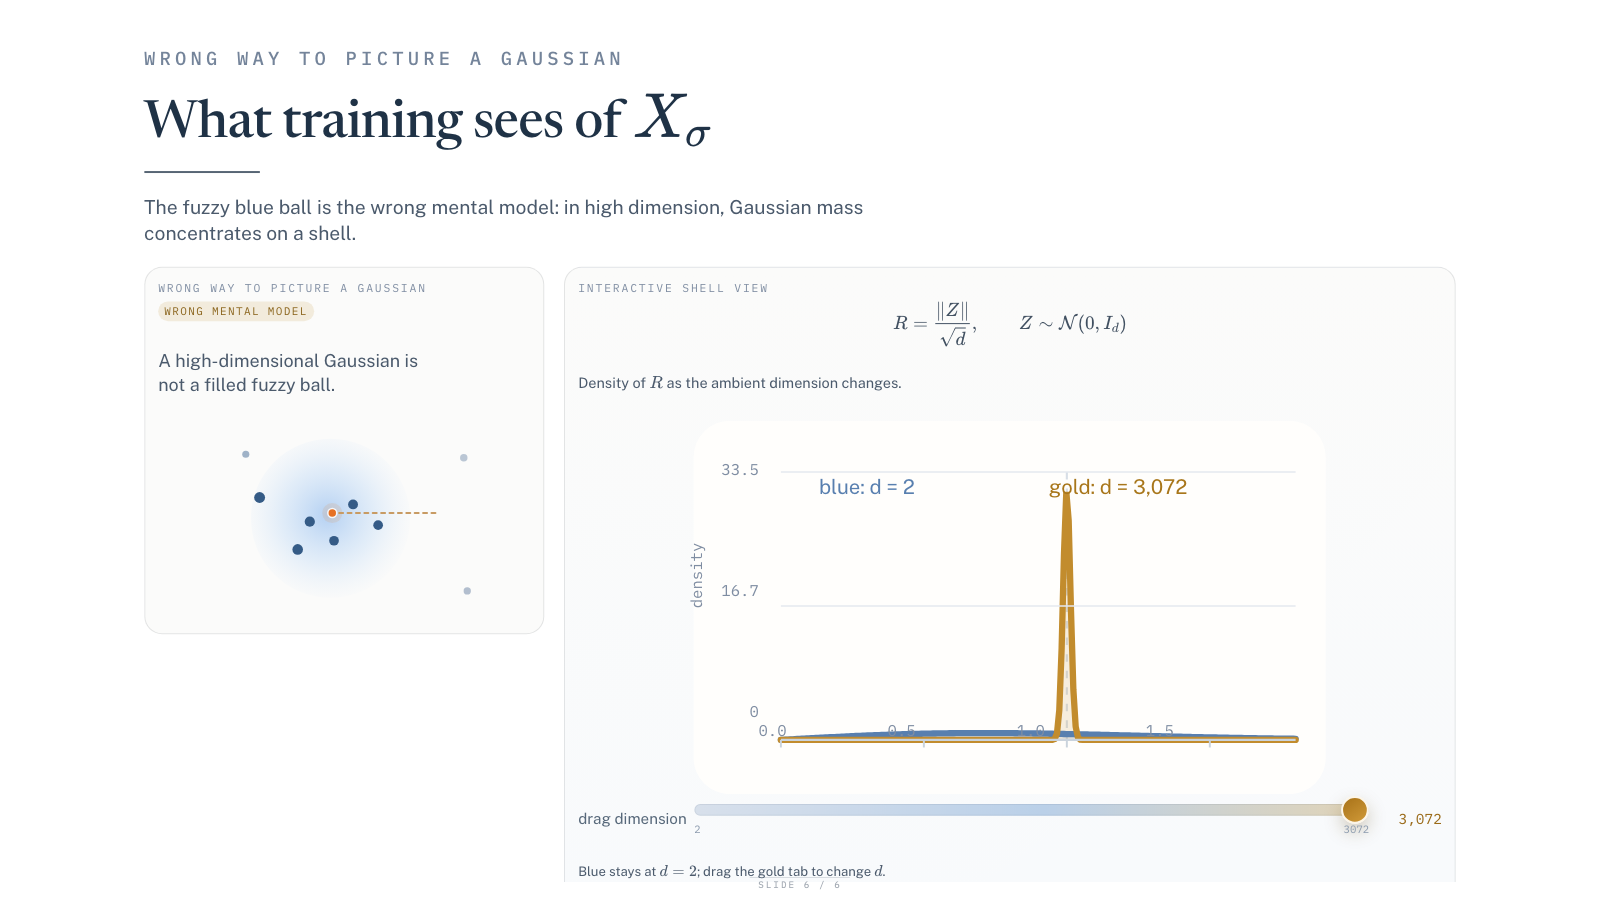
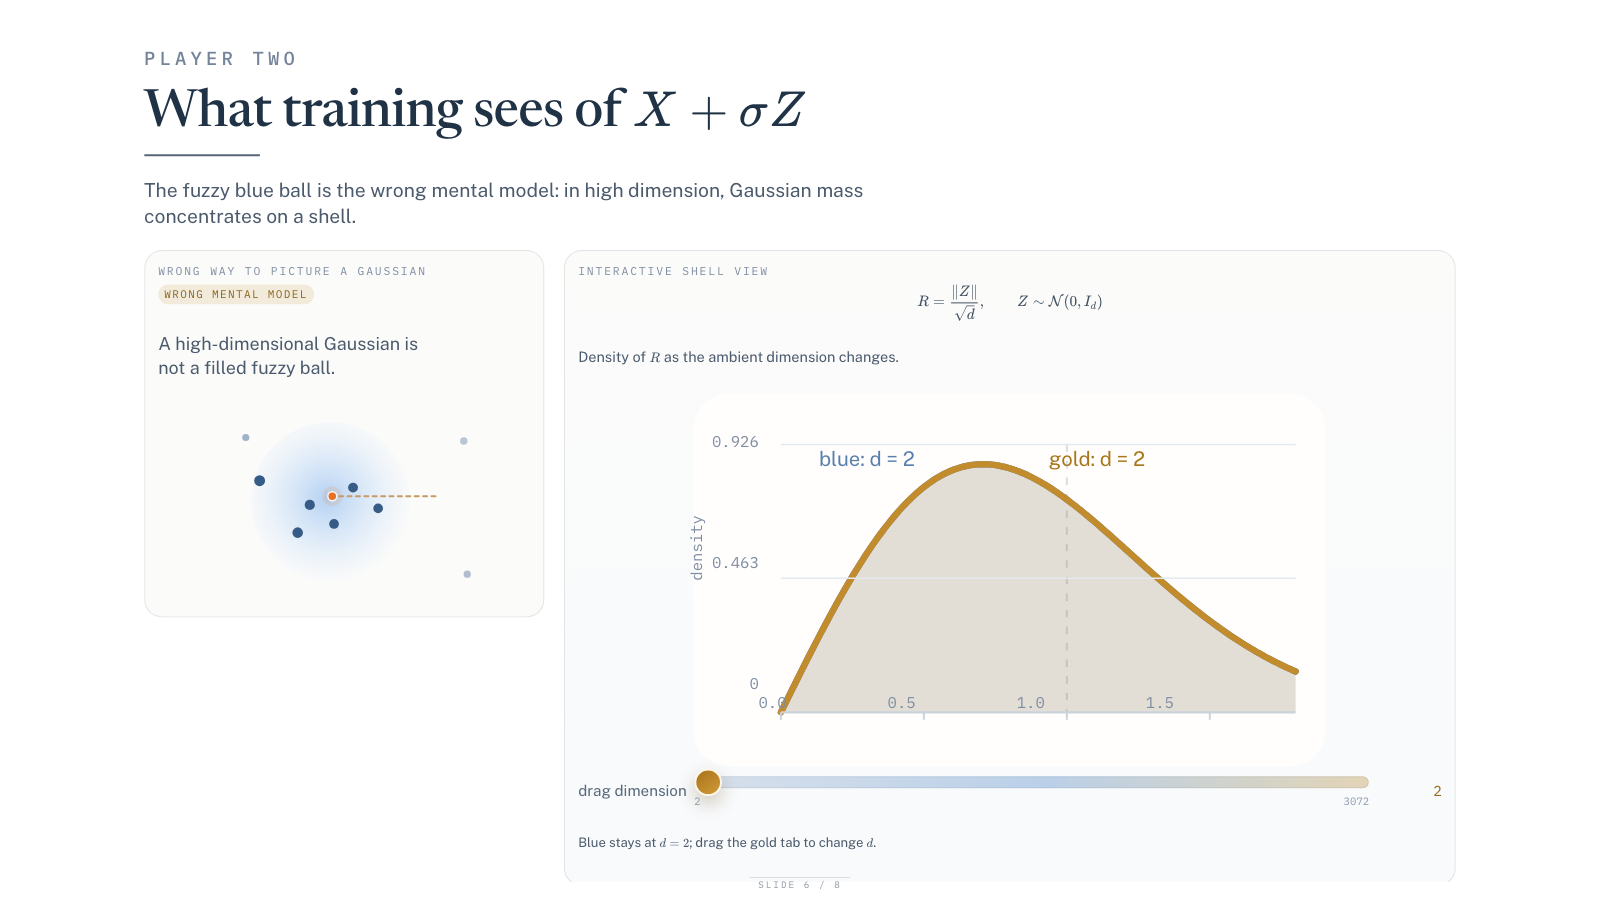
Update slide 6 player two framing

diff --git a/06-what-training-sees-of-xsigma.html b/06-what-training-sees-of-xsigma.html
@@ -3,7 +3,7 @@
 <head>
   <meta charset="utf-8">
   <meta name="viewport" content="width=device-width, initial-scale=1.0, maximum-scale=1.0, user-scalable=no">
-  <title>ICML Presentation · Slide 6 · What training sees of Xσ</title>
+  <title>ICML Presentation · Slide 6 · What training sees of X + σZ</title>
   <link rel="preconnect" href="https://fonts.googleapis.com">
   <link rel="preconnect" href="https://fonts.gstatic.com" crossorigin>
   <link href="https://fonts.googleapis.com/css2?family=IBM+Plex+Mono:wght@400;500&family=Newsreader:opsz,wght@6..72,400;6..72,500;6..72,600;6..72,700&family=Public+Sans:wght@300;400;500;600;700&display=swap" rel="stylesheet">
@@ -242,7 +242,7 @@
   <div class="reveal standalone-reveal">
     <div class="slides">
       <section class="compact-shell-slide">
-        <h2 data-kicker="Wrong way to picture a Gaussian">What training sees of <span id="title-math">Xσ</span></h2>
+        <h2 data-kicker="PLAYER TWO">What training sees of <span id="title-math">X + \sigma Z</span></h2>
 
         <p class="lead-copy">
           The fuzzy blue ball is the wrong mental model: in high dimension, Gaussian mass concentrates on a shell.
@@ -295,18 +295,18 @@
                 <g id="radius-yticks"></g>
                 <g id="radius-xticks"></g>
                 <text id="radius-ref-label" x="0" y="0" fill="#587faf" font-family="Public Sans, sans-serif" font-size="15">blue: d = 2</text>
-                <text id="radius-dyn-label" x="0" y="0" fill="#a8761a" font-family="Public Sans, sans-serif" font-size="15">gold: d = 3072</text>
+                <text id="radius-dyn-label" x="0" y="0" fill="#a8761a" font-family="Public Sans, sans-serif" font-size="15">gold: d = 2</text>
               </svg>
               <div class="dimension-control">
                 <span>drag dimension</span>
                 <div class="dimension-slider-wrap">
-                  <input id="radius-dimension" class="dimension-slider" type="range" min="2" max="3072" value="3072" step="1" aria-label="Drag to change the ambient dimension d">
+                  <input id="radius-dimension" class="dimension-slider" type="range" min="2" max="3072" value="2" step="1" aria-label="Drag to change the ambient dimension d">
                   <div class="dimension-endpoints" aria-hidden="true">
                     <span>2</span>
                     <span>3072</span>
                   </div>
                 </div>
-                <span id="radius-dimension-value" class="control-readout">3072</span>
+                <span id="radius-dimension-value" class="control-readout">2</span>
               </div>
               <p class="widget-note">
                 Blue stays at <span id="shell-note-fixed-math">d=2</span>; drag the gold tab to change <span id="shell-note-drag-math">d</span>.
@@ -323,7 +323,7 @@
       const input = document.getElementById("radius-dimension");
       const root = document.querySelector(".compact-shell-slide");
       const mathSpecs = [
-        { id: "title-math", tex: "X_\\sigma", display: false },
+        { id: "title-math", tex: "X + \\sigma Z", display: false },
         { id: "shell-formula-math", tex: "R = \\frac{\\lVert Z \\rVert}{\\sqrt{d}}, \\qquad Z \\sim \\mathcal{N}(0, I_d)", display: true },
         { id: "shell-caption-math", tex: "R", display: false },
         { id: "shell-note-fixed-math", tex: "d=2", display: false },
